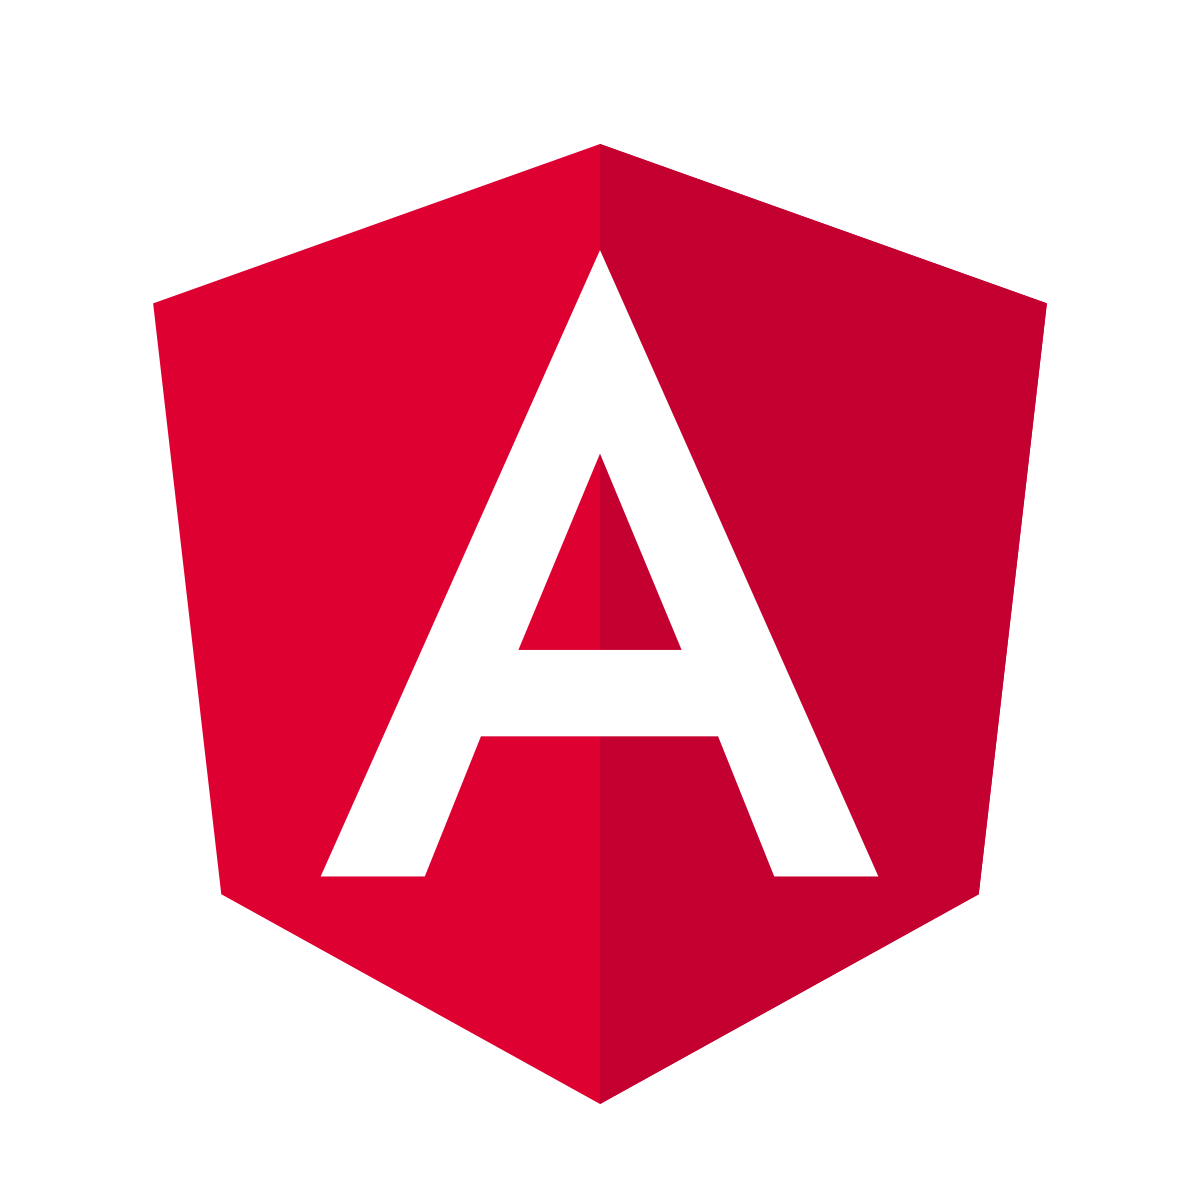
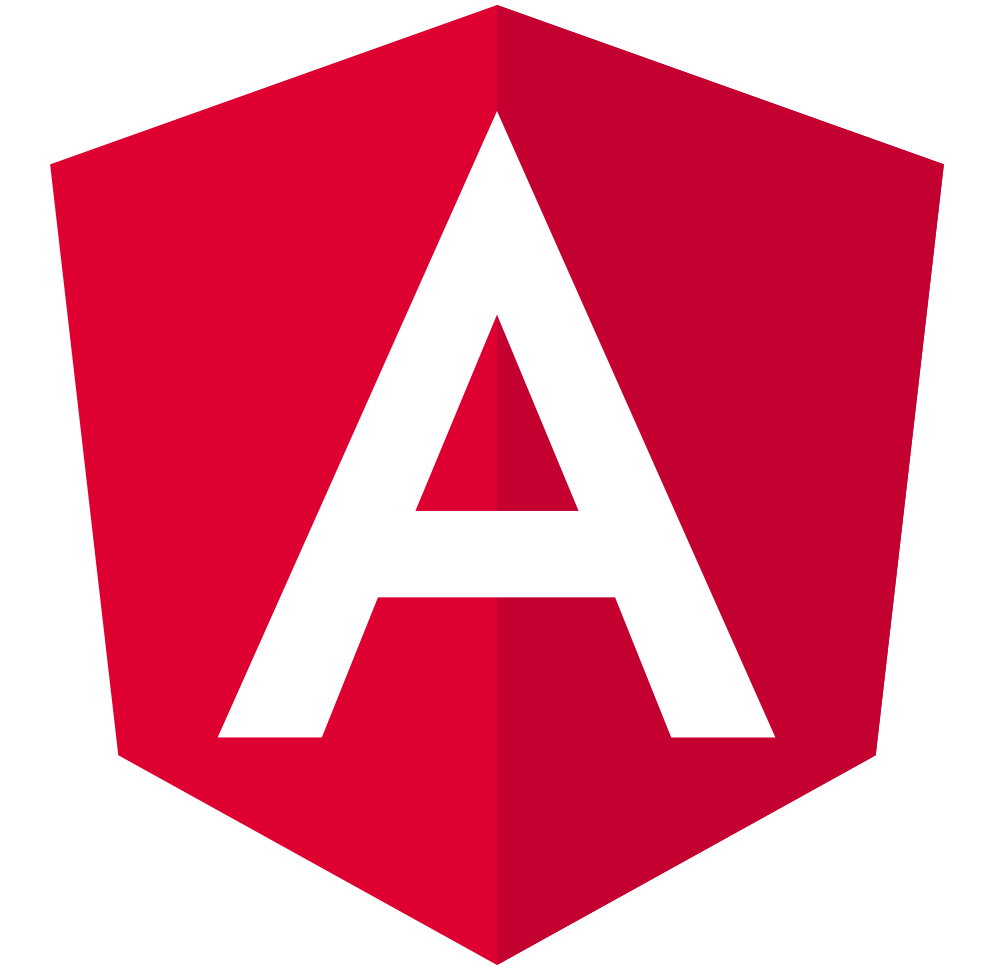
FE: add images to front end for 8 technologies

Changed region(s): [[0.0312, 0.0, 0.9658, 0.9856]]

diff --git a/dashv-frontend/src/components/app/App.js b/dashv-frontend/src/components/app/App.js
@@ -19,7 +19,7 @@ class App extends Component {
   }
 
   render() {
-    debugger;
+    this.technologies = this.technologyService.getTechnologies();
     let numberOfColumns = this.getColumnNumber(this.technologies);
 
     return (
@@ -36,8 +36,8 @@ class App extends Component {
                   { Array(3).fill(1).map((cell, j) => {
                     if (i * 3 + j < this.technologies.length) {
                       let technology = this.technologies[i * 3 + j];
-                      return <TechItem title={technology.name} versionNumber={technology.versionNumber}
-                        versionLastDate={technology.versionLastDate} />
+                      return <TechItem key={technology.name} title={technology.name} versionNumber={technology.versionNumber}
+                        versionLastDate={technology.versionLastDate} imageUrl={technology.imageUrl} />
                     }
                     return <div className="mx-2 empty-item"></div>;
                   })}

diff --git a/dashv-frontend/src/services/MockTechResults.js b/dashv-frontend/src/services/MockTechResults.js
@@ -1,0 +1,47 @@
+export const mockTechnologies = [
+  {
+    name: 'Angular',
+    versionNumber: '6.1.1',
+    versionLastDate: '19/05/18'
+  },
+  {
+    name: 'React',
+    versionNumber: '6.1.1',
+    versionLastDate: '19/05/18'
+  },
+  {
+    name: 'JavaScript',
+    versionNumber: '6.1.1',
+    versionLastDate: '19/05/18'
+  },
+  {
+    name: 'C#',
+    versionNumber: '6.1.1',
+    versionLastDate: '19/05/18'
+  },
+  {
+    name: '.NET',
+    versionNumber: '6.1.1',
+    versionLastDate: '19/05/18'
+  },
+  {
+    name: 'PostgreSQL',
+    versionNumber: '6.1.1',
+    versionLastDate: '19/05/18'
+  },
+  {
+    name: 'Android',
+    versionNumber: '6.1.1',
+    versionLastDate: '19/05/18'
+  },
+  {
+    name: 'iOS',
+    versionNumber: '6.1.1',
+    versionLastDate: '19/05/18'
+  },
+  {
+    name: 'Ruby',
+    versionNumber: '6.1.1',
+    versionLastDate: '19/05/18'
+  }
+]

diff --git a/dashv-frontend/src/services/TechImages.js b/dashv-frontend/src/services/TechImages.js
@@ -1,0 +1,38 @@
+export const images = [
+  {
+    name: 'Angular',
+    imageUrl: require('../assets/images/Angular.svg.png')
+  },
+  {
+    name: 'React',
+    imageUrl: require('../assets/images/React.svg.png')
+  },
+  {
+    name: 'JavaScript',
+    imageUrl: require('../assets/images/JavaScript.png')
+  },
+  {
+    name: 'C#',
+    imageUrl: require('../assets/images/CSharp.png')
+  },
+  {
+    name: '.NET',
+    imageUrl: require('../assets/images/DotNet.png')
+  },
+  {
+    name: 'PostgreSQL',
+    imageUrl: require('../assets/images/PostgreSQL.png')
+  },
+  {
+    name: 'Android',
+    imageUrl: require('../assets/images/Android.png')
+  },
+  {
+    name: 'iOS',
+    imageUrl: require('../assets/images/iOS.jpeg')
+  },
+  {
+    name: 'Ruby',
+    imageUrl: require('../assets/images/Ruby.png')
+  },
+]

diff --git a/dashv-frontend/src/components/tech-item/TechItem.js b/dashv-frontend/src/components/tech-item/TechItem.js
@@ -9,7 +9,8 @@ class TechItem extends Component {
     this.state = {
       title: props.title,
       version: props.versionNumber,
-      date: props.versionLastDate
+      date: props.versionLastDate,
+      imageUrl: props.imageUrl
     };
   }
 
@@ -19,7 +20,7 @@ class TechItem extends Component {
       <div className="tech-item-container mx-2">
         <div className="tech-item h-100 w-100 d-flex flex-column align-items-center">
           <div className="title mb-1 mt-2">{this.state.title}</div>
-          <img src={vue_logo} className="logo"></img>
+          <img src={this.state.imageUrl} className="logo"></img>
           <div className="version mt-1">{this.state.version}</div>
           <div className="date">{this.state.date}</div>
         <div></div>

diff --git a/dashv-frontend/src/services/TechnologyService.js b/dashv-frontend/src/services/TechnologyService.js
@@ -1,6 +1,21 @@
+import { mockTechnologies } from "./MockTechResults";
+import { Technology } from "../entities/Technology";
+import { images } from "./TechImages";
+
 class TechnologyService {
   constructor() {}
 
+  getTechnologies() {
+    let technologies = [];
+    // Make promise call here
+    mockTechnologies.forEach(mockTech => {
+      let image = images.find(x => x.name === mockTech.name);
+      technologies.push(new Technology(
+        mockTech.name, mockTech.versionNumber, mockTech.versionLastDate, image ? image.imageUrl : null
+      ))
+    });
+    return technologies;
+  }
 
 }
 

diff --git a/dashv-frontend/src/entities/Technology.js b/dashv-frontend/src/entities/Technology.js
@@ -2,10 +2,12 @@ export class Technology {
   name;
   versionNumber;
   versionLastDate;
+  imageUrl;
 
-  constructor(name, versionNumber, versionLastDate) {
+  constructor(name, versionNumber, versionLastDate, imageUrl) {
     this.name = name;
     this.versionNumber = versionNumber;
     this.versionLastDate = versionLastDate;
+    this.imageUrl = imageUrl;
   }
 }

diff --git a/dashv-frontend/src/components/tech-item/TechItem.css b/dashv-frontend/src/components/tech-item/TechItem.css
@@ -8,8 +8,10 @@
   box-shadow: 0 4px 8px 0 rgba(0, 0, 0, 0.1), 0 6px 20px 0 rgba(0, 0, 0, 0.05); }
 
 .logo {
-  height: 3.5rem;
-  width: 3.5rem; }
+  height: 3rem;
+  width: 3rem;
+  margin-top: 0.25rem;
+  margin-bottom: 0.25rem; }
 
 .date {
   font-size: 0.75rem;

diff --git a/dashv-frontend/src/components/tech-item/TechItem.scss b/dashv-frontend/src/components/tech-item/TechItem.scss
@@ -14,8 +14,10 @@
 }
 
 .logo {
-  height: 3.5rem;
-  width: 3.5rem;
+  height: 3rem;
+  width: 3rem;
+  margin-top: 0.25rem;
+  margin-bottom: 0.25rem;
 }
 
 .version {
